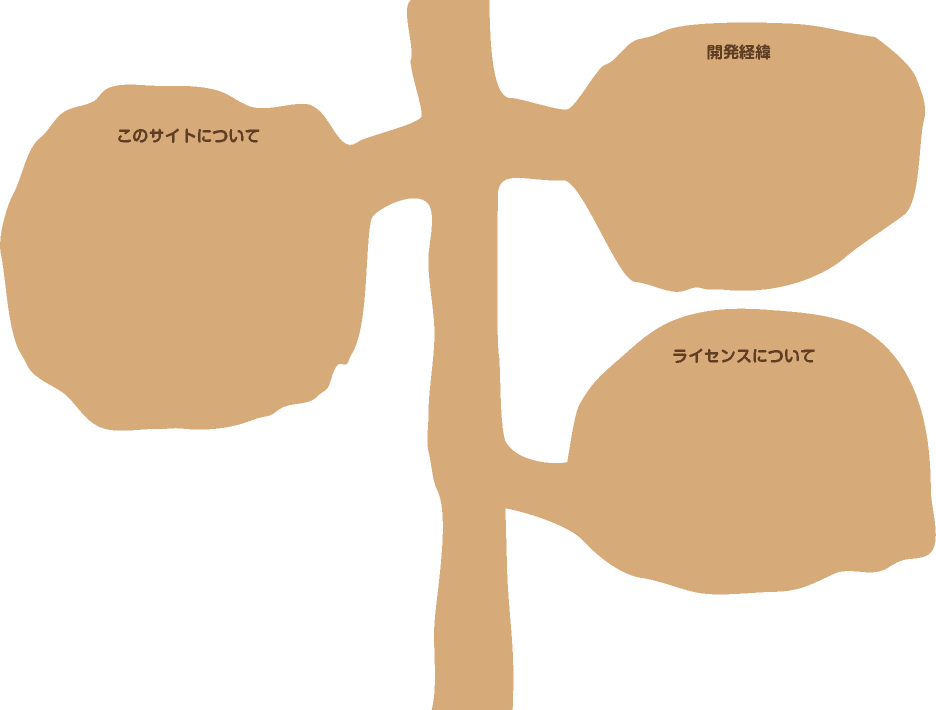
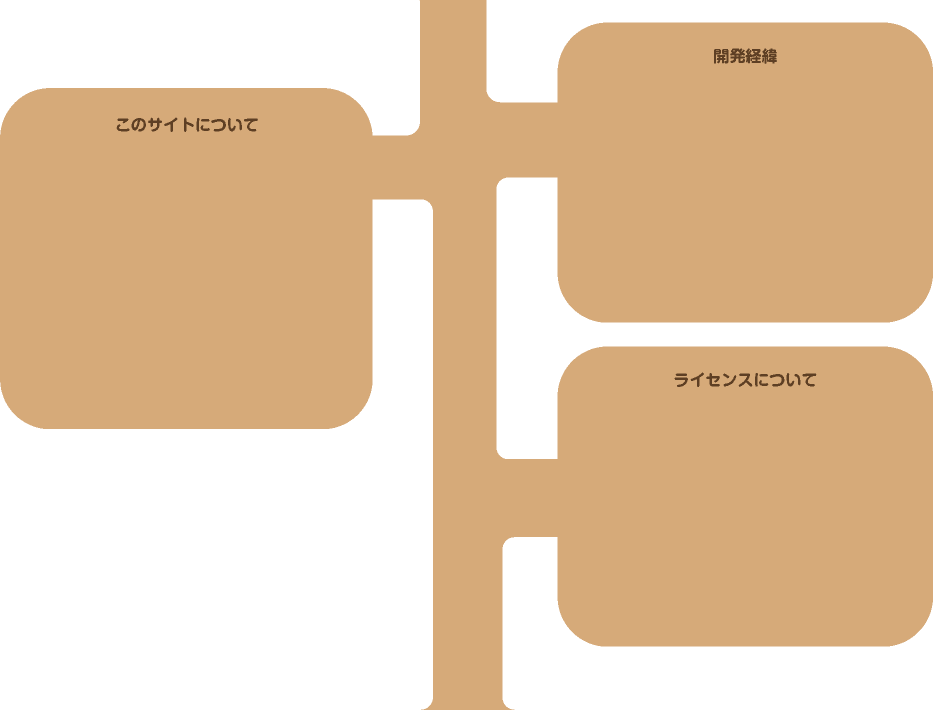
トップページの変更と画像の追加

diff --git a/index.html b/index.html
@@ -35,21 +35,99 @@
       </div>
     </div>
     <div class='bottom-back-image'>
-      <div class='footer--homes'>
-        <div class='content container'>
-            <div class='row'>
-              <div class='declar col-xs-6'>
-                <a href="#">ライセンス</a>
-                |
-                <a href="#">利用規約</a>
-                |
-                <a href="#">プライバシーポリシー</a>
-              </div>
-              <div class='company col-xs-6'>
-                Created by Daraf & Sponsord by Microsoft.
-              </div>
-            </div>
+      <div class="footer-content-image">
+        <div class="development-history">
+          <p>
+            カジュアルゲームを開発してみたいというシンプルな動機
+          </p>
+          <p>
+            からスタートしました。iOSやAndroidなどのモバイルゲ
+          </p>
+          <p>
+            ームを開発しようと考えていましたが、Windowsのタブレ
+          </p>
+          <p>
+            ットゲームというのも面白いのではないかということで、
+          </p>
+          <p>
+            プラットフォームとしてWindowsストアアプリを選択しま
+          </p>
+          <p>
+            した。Microsoftの方からのサポートもあり、100本の
+          </p>
+          <p>
+            ゲームを開発することができました。
+          </p>
+        </div>
+        <div class="about-site">
+          <p>
+            enchant.jsを用いた2Dのブラウザゲームの学習サイト
+          </p>
+          <p>
+            です。プログラミングを勉強する動機は人それぞれだと
+          </p>
+          <p>
+            思いますが、簡単なゲームを作ってみたいという人もい
+          </p>
+          <p>
+            るはずです。そんな 人のためのサイトです。サンプル
+          </p>
+          <p>
+            ゲームとして100本のゲームを開発し、ソースコードが
+          </p>
+          <p>
+            読めて、画像を利用できるようにしました。また、初心
+          </p>
+          <p>
+            者向けに写経用のテキストを作成しました。楽しくプロ
+          </p>
+          <p>
+            グラミングを勉強する最初の一歩になればと思います。
+          </p>
+        </div>
+        <div class="about-license">
+          <p>
+            MITライセンスです。勝手に使っていいし、商用利用もOK
+          </p>
+          <p>
+            です。ソース公開の義務なしで、二次著作物のライセンス
+          </p>
+          <p>
+            変更もOKです。以下Wikipediaから引用
+          </p>
+          <p>
+            <a href="http://ja.wikipedia.org/wiki/MIT_License">
+              (http://ja.wikipedia.org/wiki/MIT_License)
+            </a>
+          </p>
+          <p>
+            1. このソフトウェアを誰でも無償で無制限に扱って良い。
+          </p>
+          <p>
+            ただし、著作権表示および本許諾表示をソフトウェアの
+          </p>
+          <p>
+            すべての複製または重要な部分に記載しなければならない。
+          </p>
+          <p>
+            2. 作者または著作権者は、ソフトウェアに関してなんら
+          </p>
+          <p>
+            責任を負わない。
+          </p>
+        </div>
+        <div class='footer--homes'>
+          <div class='declar'>
+            <a href="#">ライセンス</a>
+            |
+            <a href="#">利用規約</a>
+            |
+            <a href="#">プライバシーポリシー</a>
           </div>
+          <div class='company'>
+            Created by Daraf & Sponsord by Microsoft.
+          </div>
+          <div class="clear"></div>
         </div>
       </div>
     </div>

diff --git a/css/application.css b/css/application.css
@@ -30,13 +30,58 @@
   min-width: 960px;
   background-size: cover;
   /* Firefox */
-  background: url(../img/footer.png), -moz-linear-gradient(top center, #8e5424 0%, #4f2a0d 100%);
+  background: -moz-linear-gradient(top center, #8e5424 0%, #4f2a0d 100%);
   /* Chrom と Safari */
-  background: url(../img/footer.png), -webkit-gradient(linear, center top, center bottom, from(#8e5424), to(#4f2a0d));
+  background: -webkit-gradient(linear, center top, center bottom, from(#8e5424), to(#4f2a0d));
   /* 共通 */
-  background: url(../img/footer.png), linear-gradient(top center, #8e5424 0%, #4f2a0d 100%);
+  background: linear-gradient(top center, #8e5424 0%, #4f2a0d 100%);
   background-position: top center;
-  background-repeat: no-repeat; }
+  background-repeat: no-repeat;
+  position: relative;
+  }
+
+.bottom-back-image p{
+  margin-bottom: 6px;
+  font-size: 13px;
+  color: #5f3f24;
+  font-family: "Lucida Grande","segoe UI","ヒラギノ丸ゴ ProN W4","Hiragino Maru Gothic ProN",Meiryo,Arial,sans-serif;
+}
+
+.footer-content-image{
+  height: 700px;
+  width: 960px;
+  background: url("../img/footer.png");
+  position: relative;
+  background-position: top center;
+  background-repeat: no-repeat;
+  margin-right: auto;
+  margin-left: auto;
+}
+
+.about-site{
+  position: absolute;
+  margin-left: 38px;
+  margin-top: 150px;
+}
+
+.development-history{
+  position: absolute;
+  right: 0;
+  margin-right: 28px;
+  margin-top: 82px;
+}
+
+.about-license{
+  position: absolute;
+  right: 0;
+  margin-right: 20px;
+  margin-top: 405px;
+}
+
+.about-license a{
+  color: #5f3f24;
+  text-decoration: underline;
+}
 
 .box {
   height: 140px; }
@@ -167,22 +212,24 @@
   position: relative;
   min-height: 13150px; }
 .footer--homes {
-  position: relative;
+  position: absolute;
+  width: 960px;
+  margin-bottom: 20px;
   bottom: 0px; }
-  .footer--homes .content.container .row .declar.col-xs-6 {
+  .footer--homes .declar{
     color: rgba(255, 255, 255, 0.5);
-    top: 650px;
-    position: relative;
+    float: left;
+    width: 480px;
     text-align: center; }
-    .footer--homes .content.container .row .declar.col-xs-6 a {
+    .footer--homes .declar a {
       text-decoration: none;
       color: rgba(255, 255, 255, 0.5); }
-    .footer--homes .content.container .row .declar.col-xs-6 a:hover {
+    .footer--homes .declar a:hover {
       color: white; }
-  .footer--homes .content.container .row .company.col-xs-6 {
+  .footer--homes .company {
     color: rgba(255, 255, 255, 0.5);
-    top: 650px;
-    position: relative;
+    float: left;
+    width: 480px;
     text-align: center; }
 
 .footer {
@@ -224,6 +271,9 @@
   .header .header__twitter {
     right: 0;
     margin-top: 80px; }
+  .header .header__facebook:hover, .header .header__twitter:hover{
+    opacity: 0.7;
+  }
 
 .holes .holes__hole, .holes .holes__hole1, .holes .holes__hole2, .holes .holes__hole3 {
   position: absolute; }
